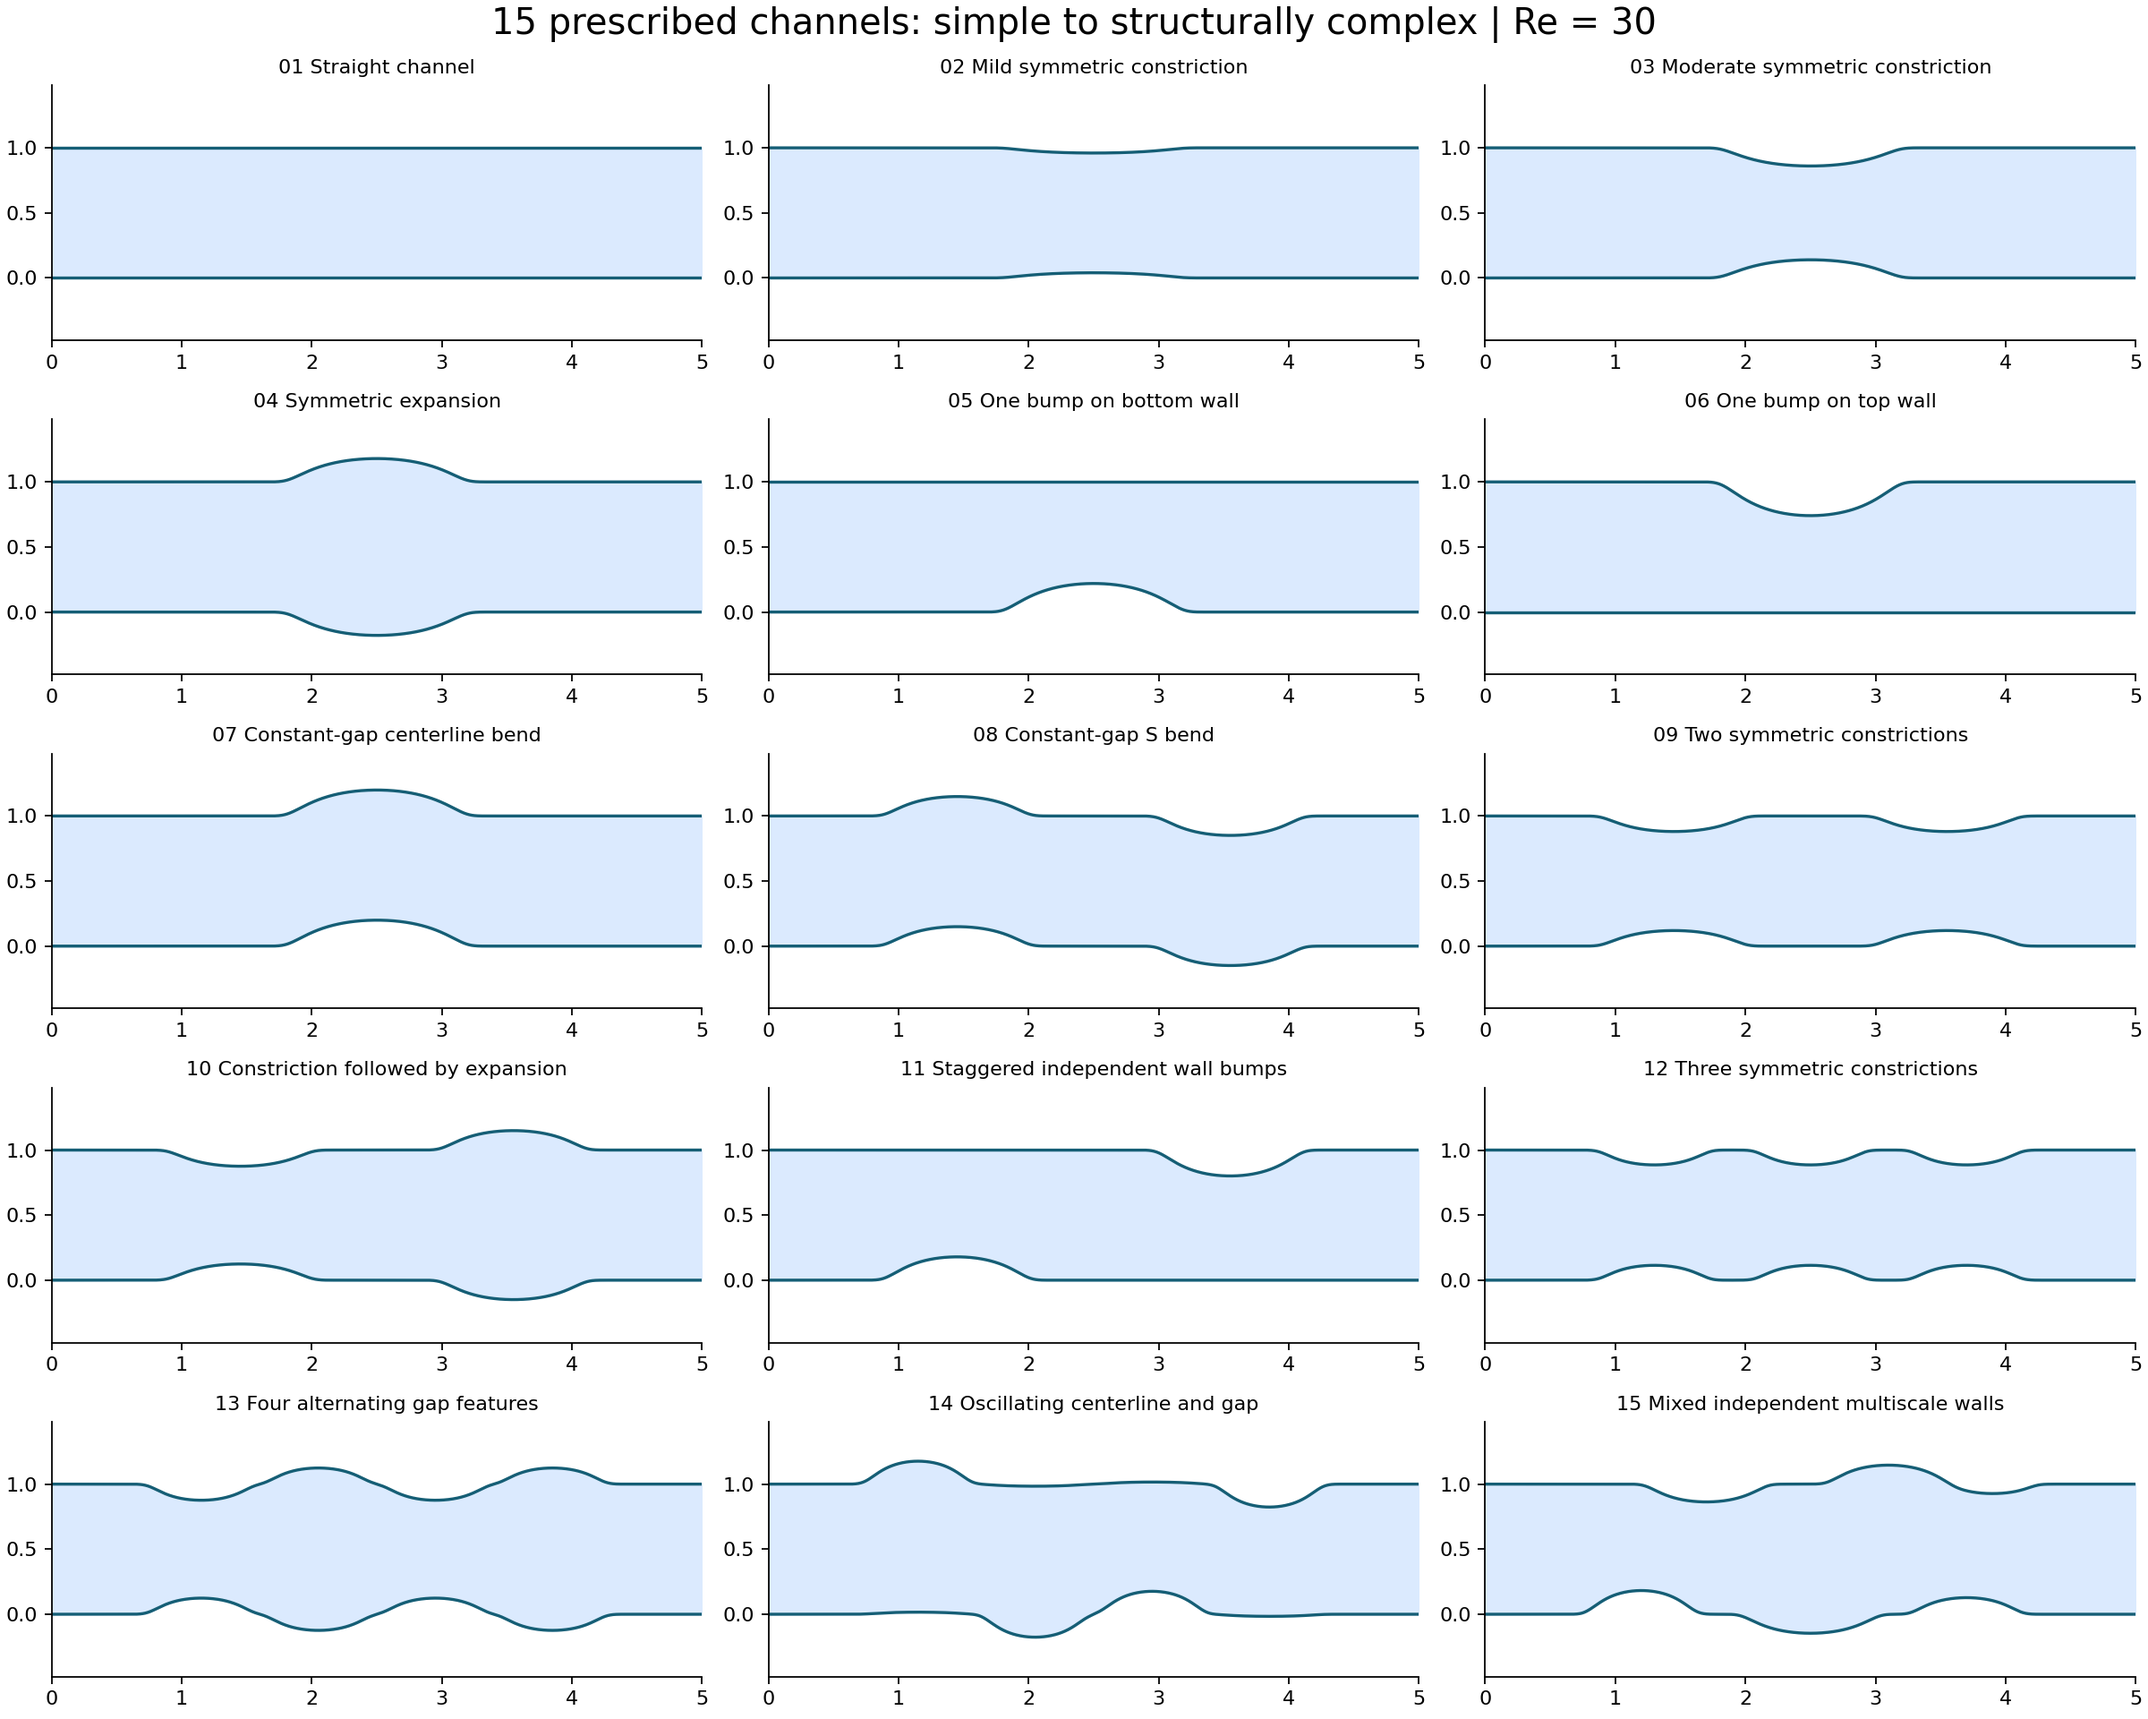
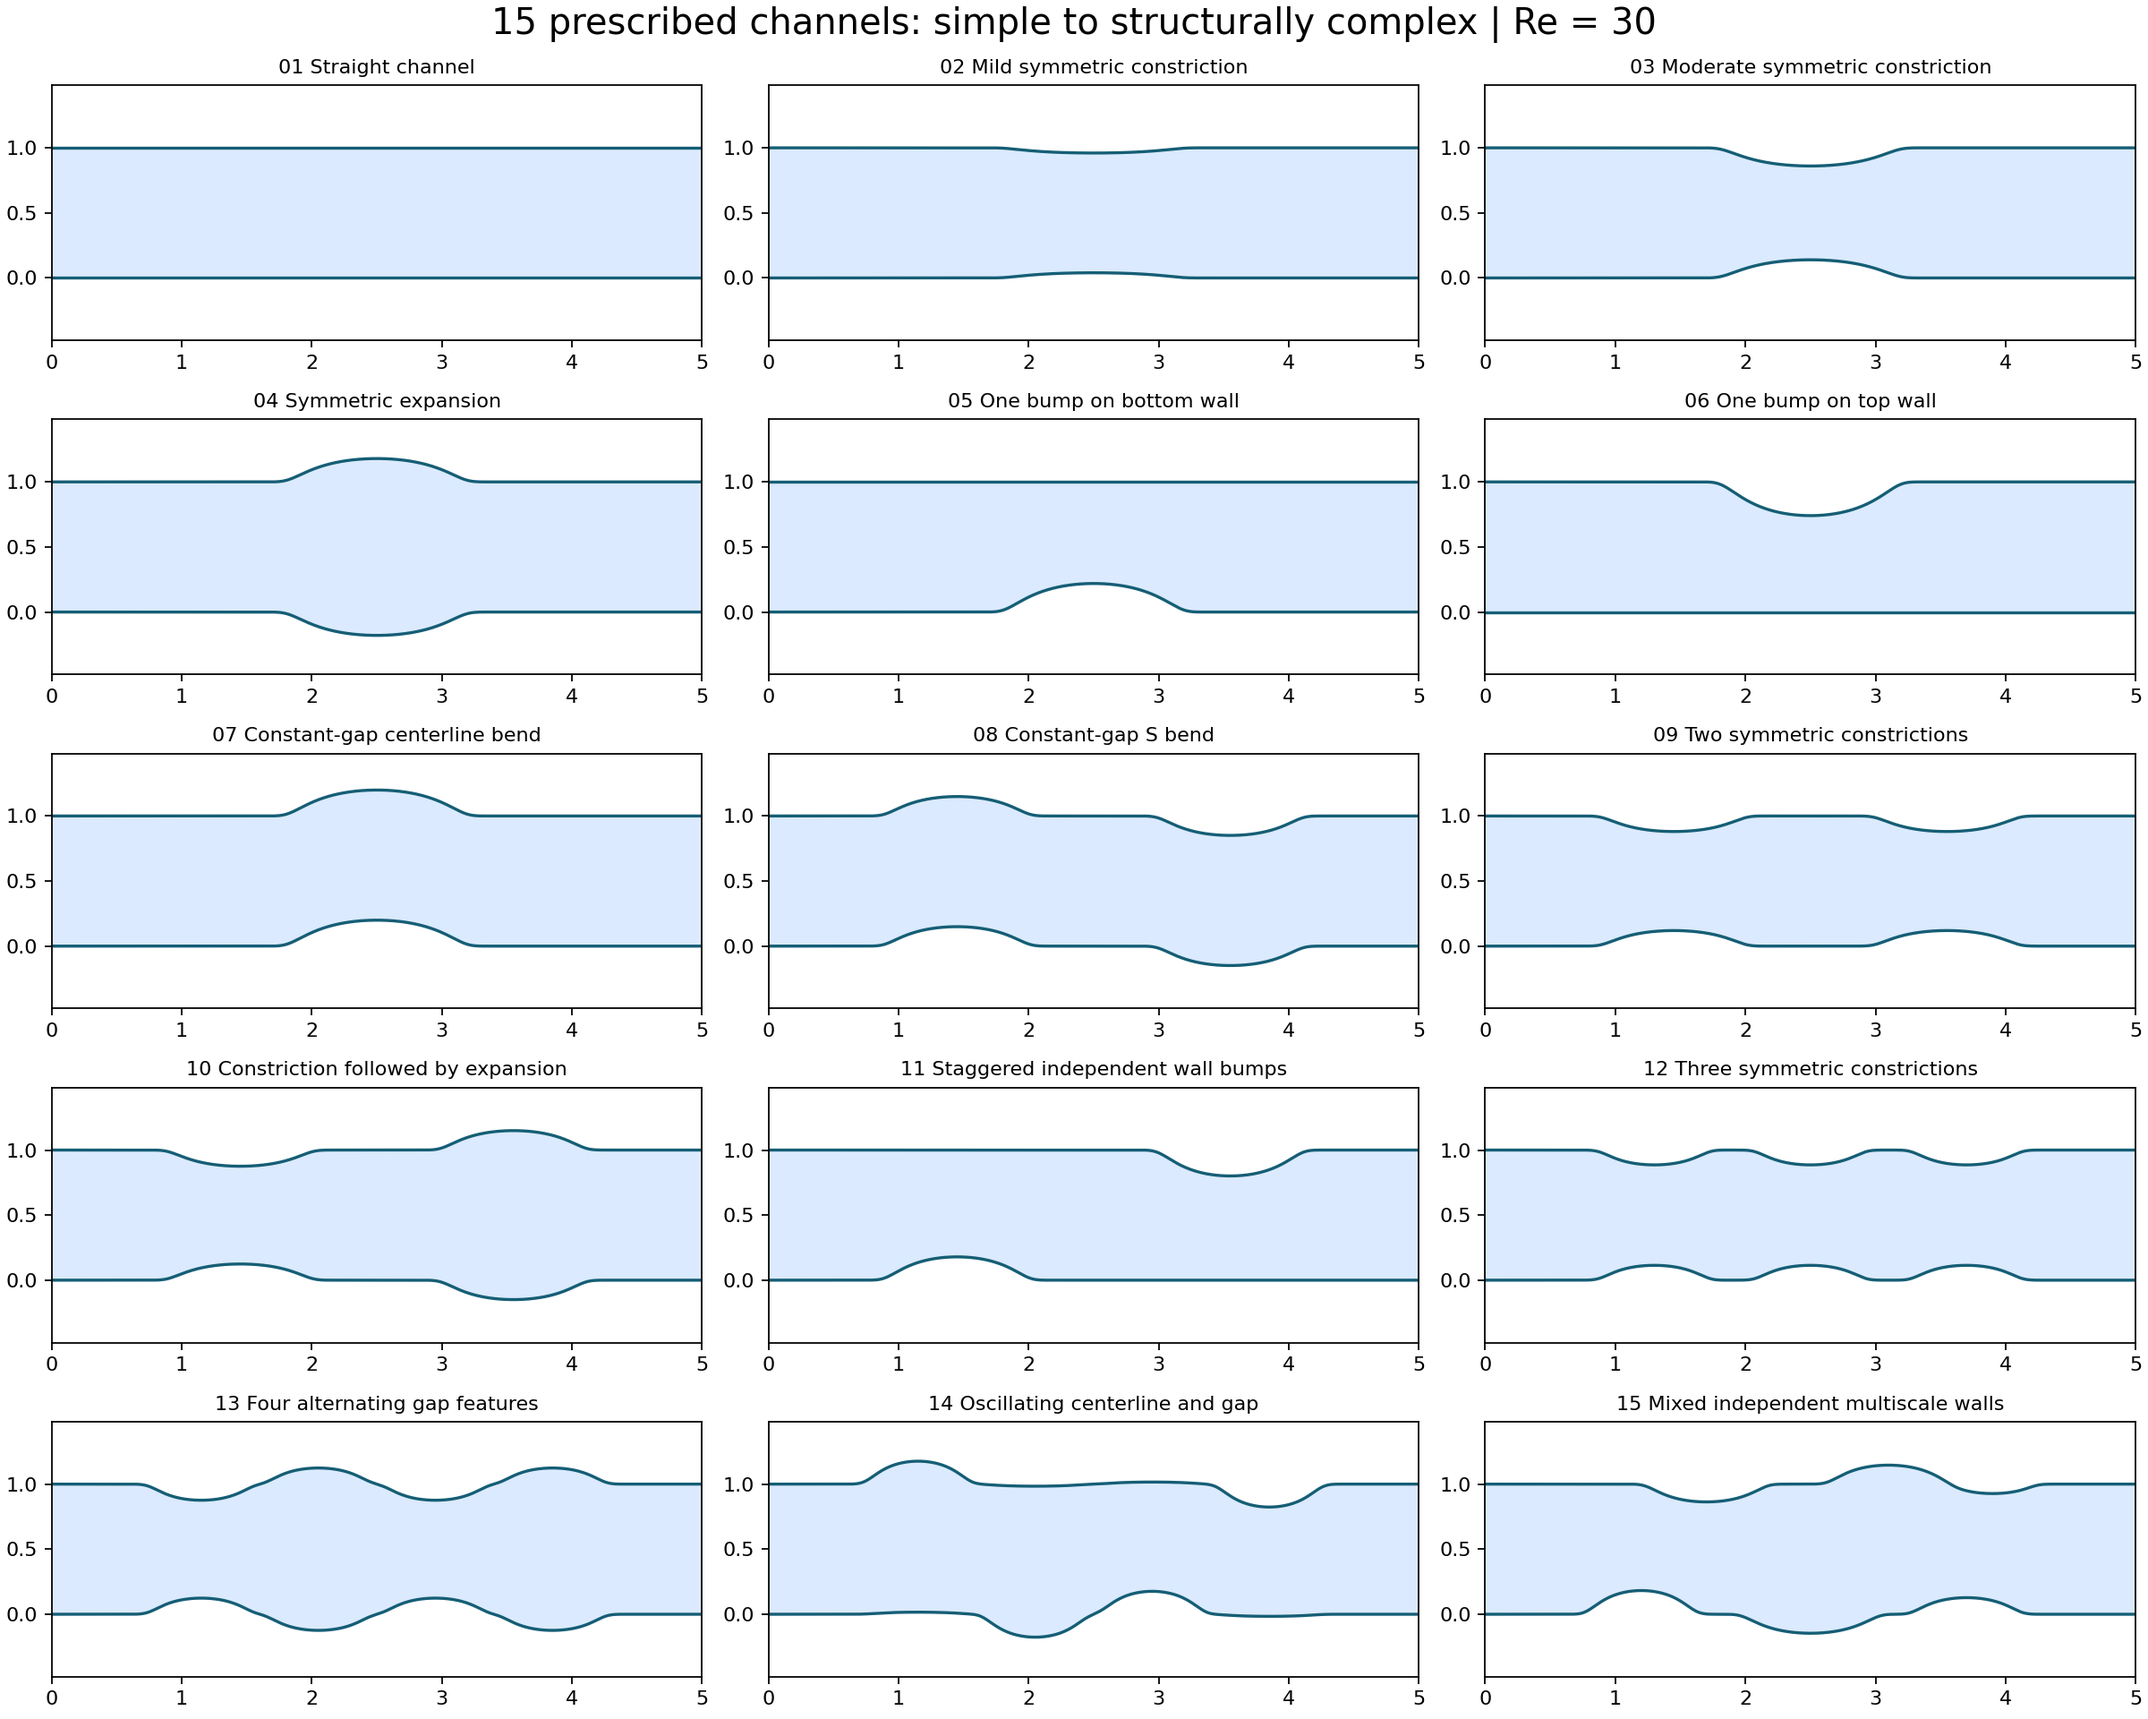
Use portable CSV line endings and refresh result checksums

diff --git a/scripts/channel_chain.py b/scripts/channel_chain.py
@@ -176,7 +176,7 @@ def summarize(output,manifest,records,plt,colors):
     import csv,html
     metrics=['velocity_relative_l2','pressure_relative_l2','pressure_drop_relative','v_absolute_rms']
     with (output/'summary.csv').open('w',newline='') as f:
-        writer=csv.DictWriter(f,fieldnames=['index','title','reynolds']+metrics+['mesh_velocity_uncertainty','mesh_pressure_uncertainty','mesh_drop_uncertainty'])
+        writer=csv.DictWriter(f,lineterminator='\n',fieldnames=['index','title','reynolds']+metrics+['mesh_velocity_uncertainty','mesh_pressure_uncertainty','mesh_drop_uncertainty'])
         writer.writeheader()
         for r in records:writer.writerow({**{k:r[k] for k in ['index','title','reynolds']},**{k:r['metrics'][k] for k in metrics},**{'mesh_'+n+'_uncertainty':r['mesh_uncertainty'][m] for n,m in [('velocity','velocity'),('pressure','pressure'),('drop','pressure_drop')]}})
     report=dict(checkpoint_sha256=manifest['checkpoint_sha256'],checkpoint_step=32216,reynolds=30.,expected=15,passed=len(records),failed=15-len(records),all_fem_mesh_checks_passed=all(max(r['mesh_uncertainty'].values())<=.01 for r in records),locked_test_used=False,accepted_model=False,case_selection=manifest['selection'],cases=records)
